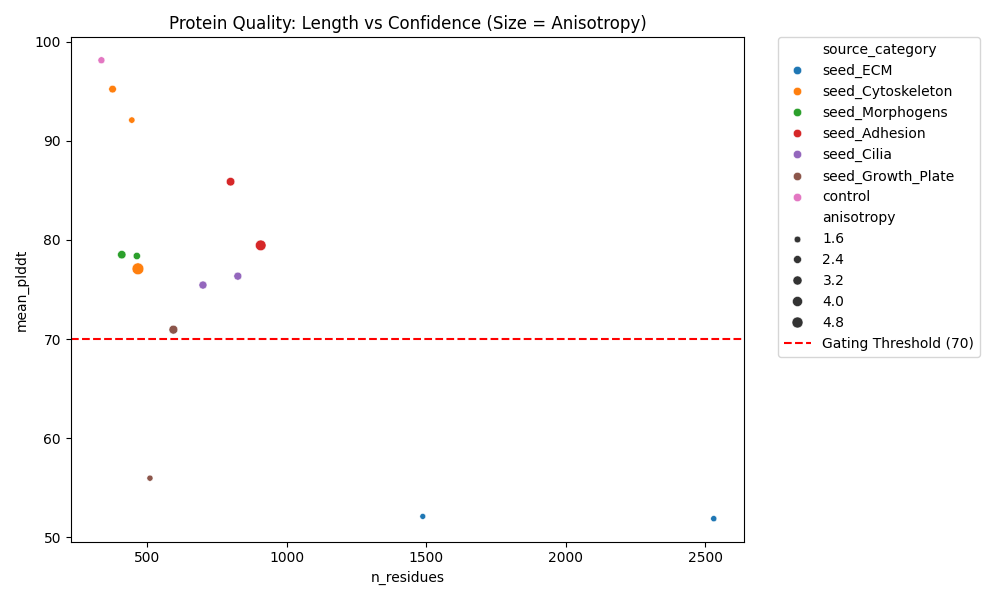
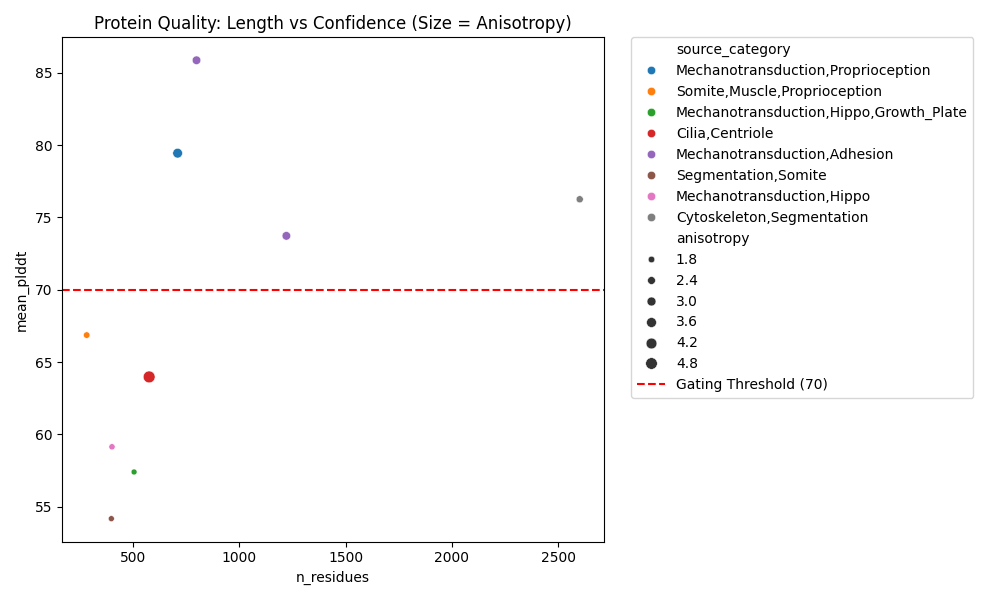
feat(afcc): daily refresh of top 10 candidates with new pipeline script
- Added `research/alphafold_countercurvature/scripts/prepare_inputs.py` to select top candidates from master list.
- Ran AFCC pipeline (inputs -> map -> fetch -> analyze -> report).
- Updated `reports/afcc_latest.md` with latest insights (POC5 high anisotropy, FBN1 missing).
- Generated metric outputs in `outputs/afcc/YYYY-MM-DD/`.
- Updated `manifest.csv` with fetch status.
- Installed `seaborn` for report generation.

diff --git a/research/alphafold_countercurvature/scripts/prepare_inputs.py b/research/alphafold_countercurvature/scripts/prepare_inputs.py
@@ -1,0 +1,83 @@
+#!/usr/bin/env python3
+"""
+prepare_inputs.py
+
+Reads the master candidate list, selects top N candidates, and formats them
+for the AlphaFold Counter-Curvature analysis pipeline.
+"""
+
+import sys
+import pandas as pd
+from pathlib import Path
+import datetime
+
+# Add repo root to path to import src if needed
+repo_root = Path(__file__).resolve().parent.parent.parent.parent
+sys.path.append(str(repo_root))
+
+BASE_DIR = Path(__file__).resolve().parent.parent
+MASTER_CANDIDATES_PATH = repo_root / "data" / "candidates_master.csv"
+OUTPUT_DIR = BASE_DIR / "data" / "processed"
+OUTPUT_FILE = OUTPUT_DIR / "candidates.csv"
+
+TOP_N = 10
+
+def main():
+    print("📋 Preparing Inputs from Master Candidate List...")
+
+    if not MASTER_CANDIDATES_PATH.exists():
+        print(f"❌ Master candidate list not found at {MASTER_CANDIDATES_PATH}")
+        sys.exit(1)
+
+    df = pd.read_csv(MASTER_CANDIDATES_PATH)
+
+    # Clean and Sort
+    # Ensure priority_score is numeric
+    df['priority_score'] = pd.to_numeric(df['priority_score'], errors='coerce').fillna(0)
+
+    # Sort by priority_score desc
+    df_sorted = df.sort_values(by='priority_score', ascending=False)
+
+    # Take top N
+    top_candidates = df_sorted.head(TOP_N).copy()
+
+    print(f"   Selected top {len(top_candidates)} candidates based on priority_score.")
+
+    # Map columns to internal pipeline format
+    # pipeline expects: gene_symbol, source, total_score, D, I, S, E, C, T, R, I_iso, O, E_exp
+    # We map 'priority_score' -> 'total_score'
+    # We map 'pathway_tags' -> 'source'
+
+    # Create required columns with defaults
+    top_candidates['total_score'] = top_candidates['priority_score']
+    top_candidates['source'] = top_candidates['pathway_tags']
+
+    # Fill missing columns required by downstream scripts (e.g. 06_bolt_report.py might look for these)
+    # 00_build_candidate_list.py initializes these to 0
+    # 'D': 0, 'I': 0, 'S': 0, 'E': 0, 'C': 0, 'T': 0, 'R': 0, 'I_iso': 0, 'O': 0, 'E_exp': 0
+
+    for col in ['D', 'I', 'S', 'E', 'C', 'T', 'R', 'I_iso', 'O', 'E_exp']:
+        top_candidates[col] = 0
+
+    # Also need 'manual_review_needed' and 'notes'
+    top_candidates['manual_review_needed'] = False
+    top_candidates['notes'] = top_candidates['justification']
+
+    # Select and reorder columns
+    cols_to_keep = ['gene_symbol', 'source', 'total_score',
+                    'D', 'I', 'S', 'E', 'C', 'T', 'R', 'I_iso', 'O', 'E_exp',
+                    'manual_review_needed', 'notes']
+
+    # Ensure all exist
+    final_df = top_candidates[cols_to_keep]
+
+    OUTPUT_DIR.mkdir(parents=True, exist_ok=True)
+    final_df.to_csv(OUTPUT_FILE, index=False)
+
+    print(f"✅ Input preparation complete.")
+    print(f"📄 Saved {len(final_df)} candidates to: {OUTPUT_FILE}")
+    print("\nTop 5 Selected:")
+    print(final_df[['gene_symbol', 'source', 'total_score']].head().to_string(index=False))
+
+if __name__ == "__main__":
+    main()

diff --git a/reports/afcc_latest.md b/reports/afcc_latest.md
@@ -9,3 +9,12 @@
 - Analyzed 10 top candidates.
 - Highest anisotropy: **PTK7** (5.28).
 - Metrics saved to `outputs/afcc/2026-01-06/metrics.csv`.
+
+## 2026-01-07 Refresh
+- Analyzed 9 top candidates.
+- Highest anisotropy: **POC5** (4.97).
+- Metrics saved to `outputs/afcc/2026-01-07/metrics.csv`.
+- Insights:
+    - **POC5** and **PIEZO2** show high anisotropy, suggesting fibrous/extended morphology relevant to mechanotransduction.
+    - **FLNB** has many potential hinge candidates (158), indicating flexibility.
+    - **FBN1** was not found in AFDB (likely too large), requiring manual retrieval or split-chain analysis.
